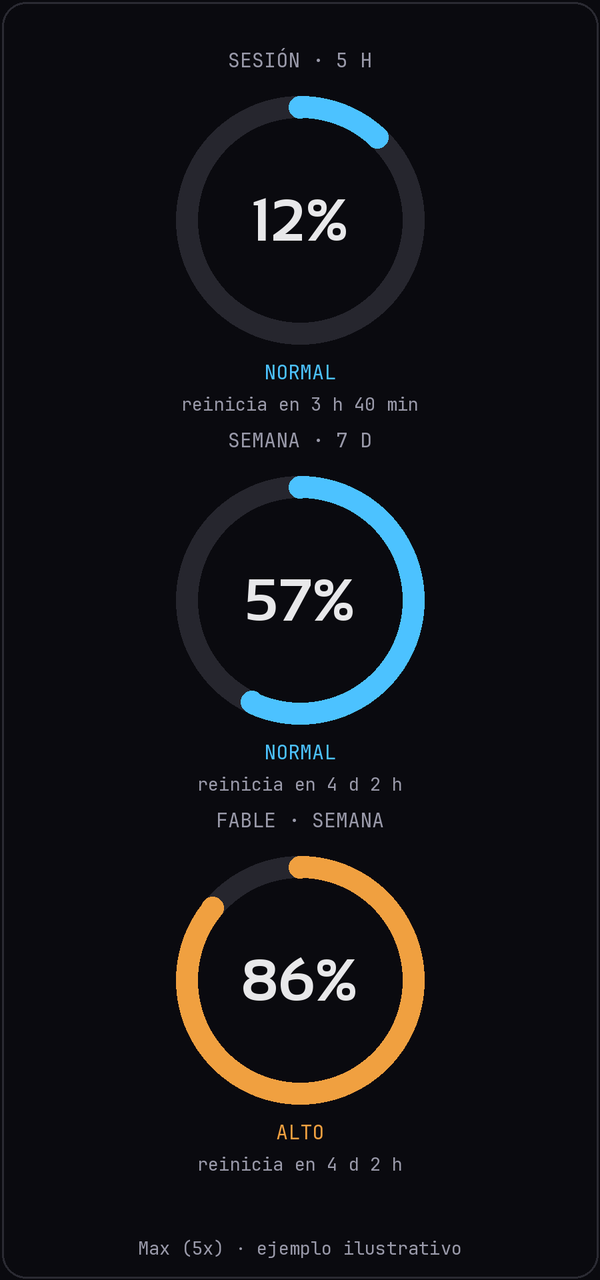
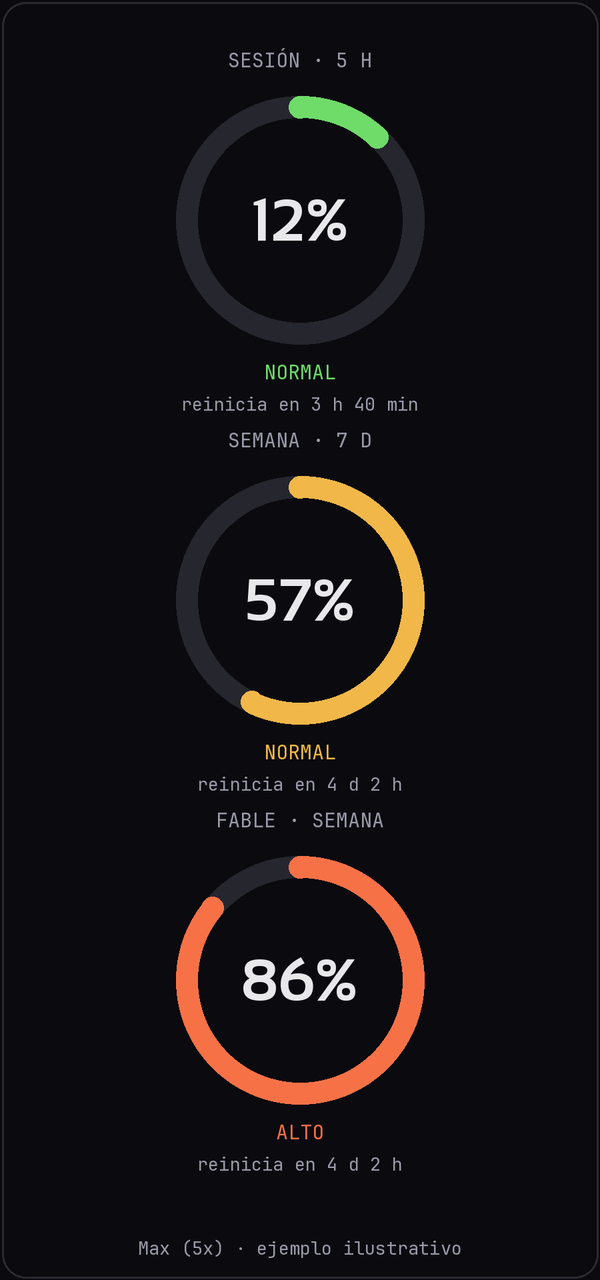
feat(widget): color gauges on a green-to-red severity scale
Claude-Session: https://claude.ai/code/session_012JHDfuoNnP8jXETGCBcakg

diff --git a/claude_usage_widget.py b/claude_usage_widget.py
@@ -298,6 +298,21 @@ def fmt_age(sec):
     return f"hace {int(sec // 3600)}h"
 
 
+# Escala de severidad: verde -> verde-amarillo -> amarillo -> naranja-rojo -> rojo (0, 25, 50, 75, 100 %)
+_SCALE = [(0, (0x3d, 0xdc, 0x84)), (25, (0xa6, 0xd9, 0x4a)), (50, (0xf2, 0xc9, 0x4c)),
+          (75, (0xf0, 0x8a, 0x3c)), (100, (0xff, 0x52, 0x52))]
+
+
+def gauge_color(pct):
+    """Color del anillo interpolado entre los 5 tramos segun el porcentaje (tope en 0 y 100)."""
+    p = max(0.0, min(100.0, float(pct)))
+    for (p0, c0), (p1, c1) in zip(_SCALE, _SCALE[1:]):
+        if p <= p1:
+            t = (p - p0) / (p1 - p0)
+            return "#%02x%02x%02x" % tuple(round(a + (b - a) * t) for a, b in zip(c0, c1))
+    return "#%02x%02x%02x" % _SCALE[-1][1]
+
+
 def tone_for(pct, has_data):
     """Motita: accent normal, warning cerca del limite, danger por encima. Siempre con una palabra."""
     if not has_data:
@@ -504,7 +519,7 @@ def run_ui():
 
     def paint(sec, pct, has, val, unit, line1, line2, title=None):
         key, word = tone_for(pct, has)
-        color = TONES[key]
+        color = gauge_color(pct) if has else TONES[key]
         data, cx, cy = render_ring(GW, GH, pct / 100.0, color, TRACK, SURF, px(8))
         sec["img"].put(data, to=(0, 0))
         c = sec["cv"]

diff --git a/README.md b/README.md
@@ -7,6 +7,7 @@
 Widget de escritorio para Windows (Python + tkinter) que muestra tu uso de Claude con gauges circulares antialiased y estilo Motita (tema oscuro).
 
 ## Qué muestra
+- El anillo cambia de color con el %: verde → verde-amarillo → amarillo → naranja-rojo → rojo.
 - Sesión (5 h), semana (7 d) y Fable semanal, con el % real del plan y el tiempo hasta el reinicio.
 - Si no hay datos reales, estima el uso desde los logs locales de Claude Code frente a tu pico de 30 días.
 
